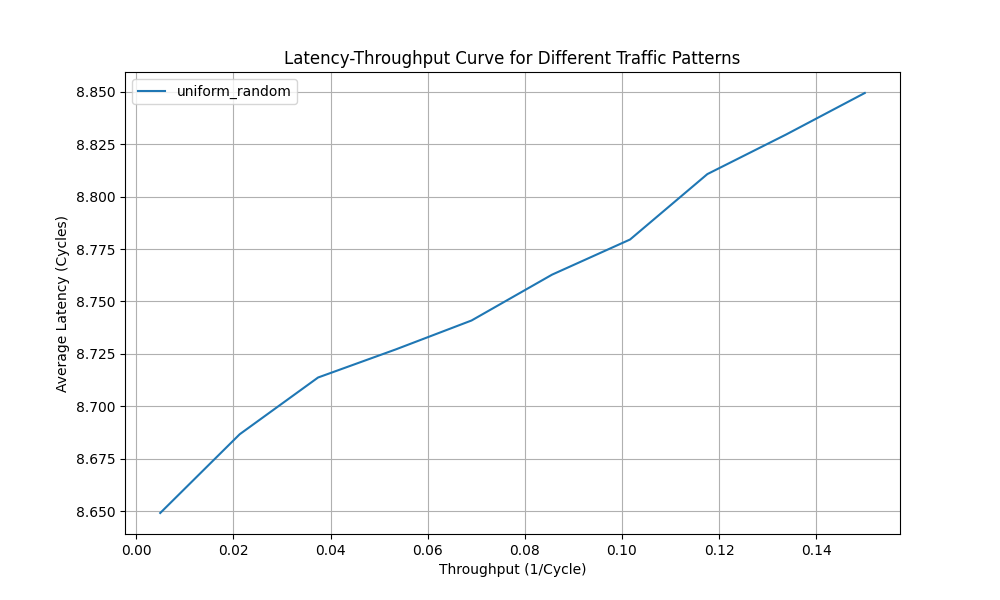
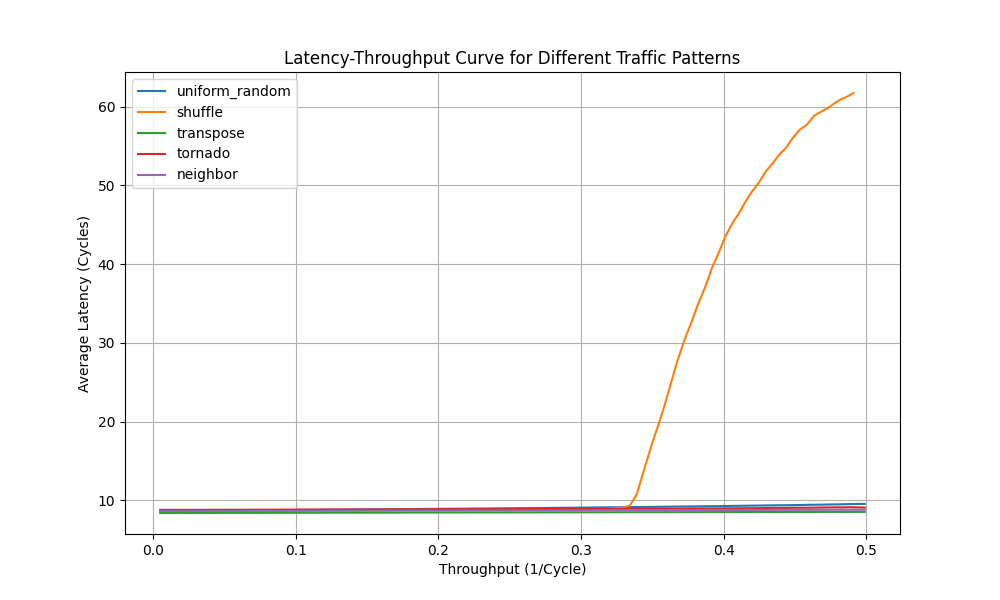
python: draw pictures

diff --git a/src/mem/ruby/network/garnet/RoutingUnit.cc b/src/mem/ruby/network/garnet/RoutingUnit.cc
@@ -284,17 +284,11 @@ RoutingUnit::outportComputeMinimal(RouteInfo route, NetDest msg_destination)
     }
 
     // If not directly connected, search for a 2-hop path
-    bool is_connected = false;
     for (int link = 0; link < m_routing_table[vnet].size(); link++) {
         if (msg_destination.intersectionIsNotEmpty(
             m_routing_table[vnet][link])) {
-
-            // TODO
-            // if the next route is connected to the target route
-            //{
-            //    num_candidates++;
-            //    output_link_candidates.push_back(link);
-            //}
+            num_candidates++;
+            output_link_candidates.push_back(link);
         }
     }
 

diff --git a/test.py b/test.py
@@ -5,13 +5,13 @@ import matplotlib.pyplot as plt
 import shutil
 
 # 定义仿真参数
-injection_rates = np.linspace(0.01, 0.3, 10)
+injection_rates = np.linspace(0.01, 1.0, 100)
 traffic_patterns = [
     "uniform_random",
-    # "shuffle",
-    # "transpose",
-    # "tornado",
-    # "neighbor",
+    "shuffle",
+    "transpose",
+    "tornado",
+    "neighbor",
 ]
 results = {}
 
